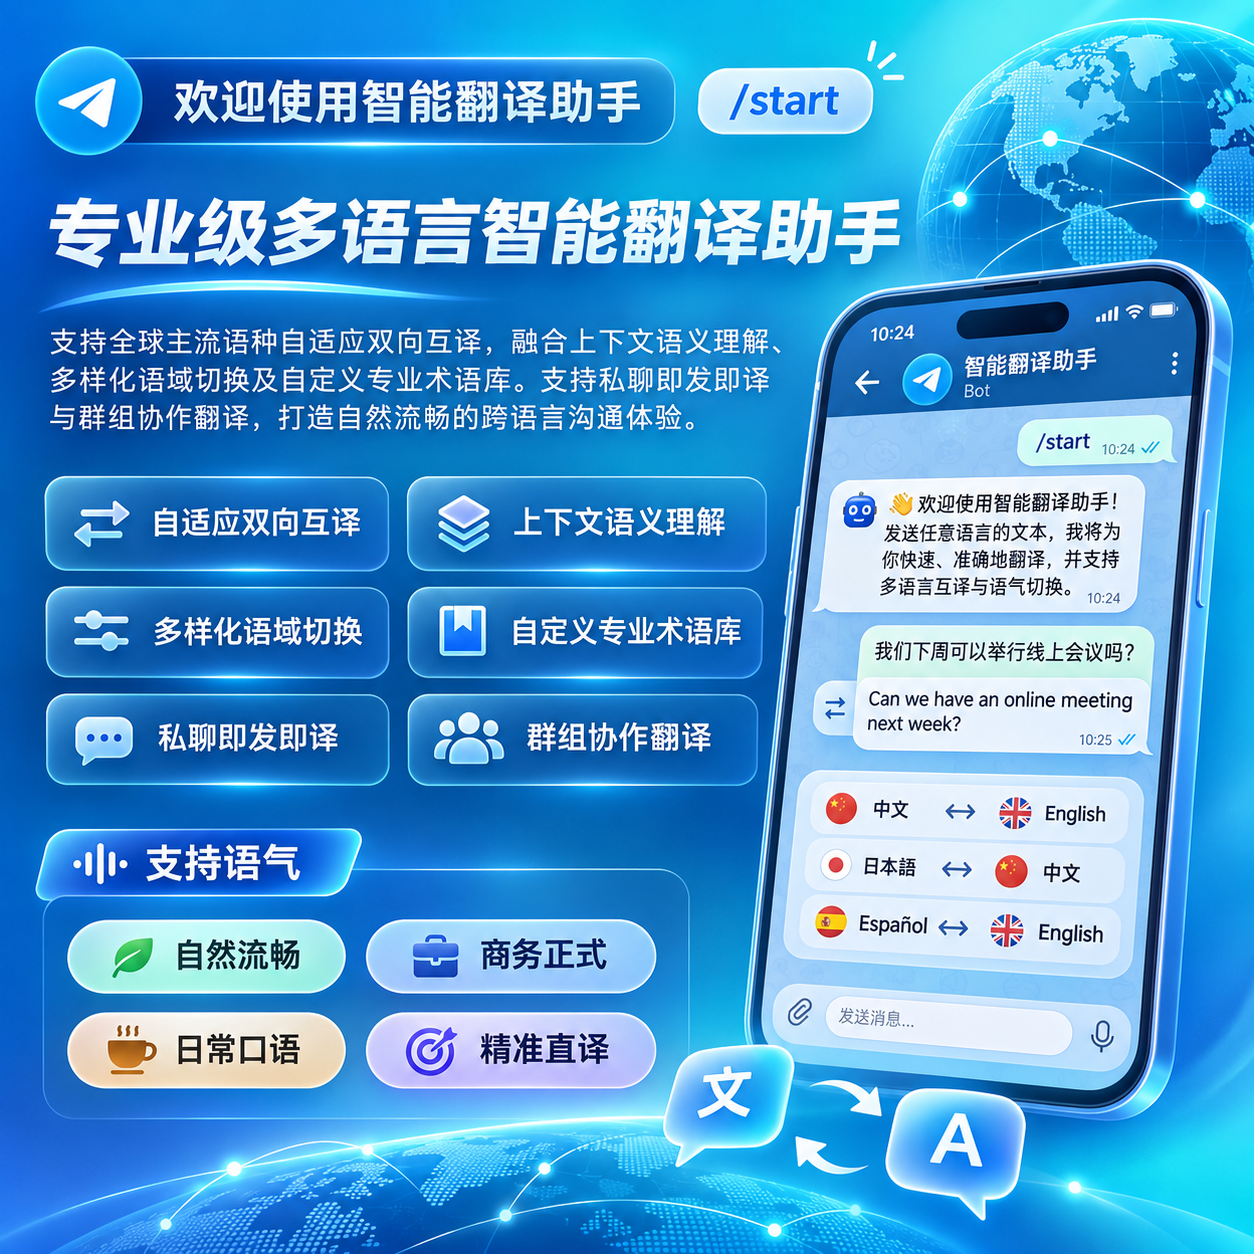
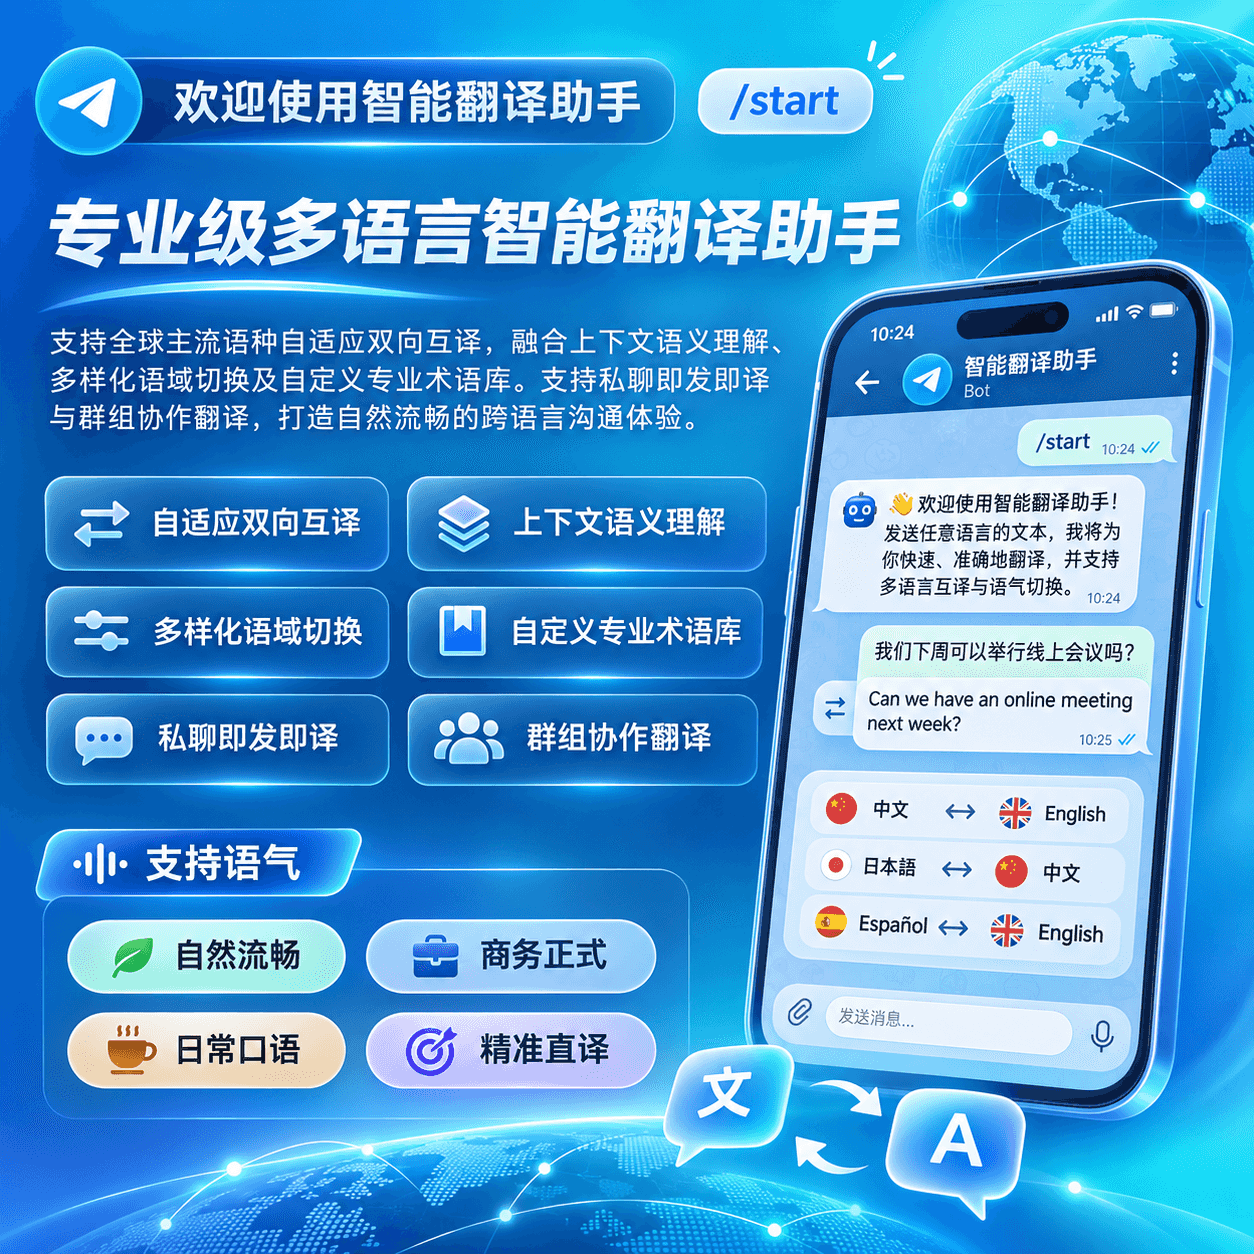
chore: v0.1.0-rc.20 欢迎图改用压缩版

diff --git a/CHANGELOG.md b/CHANGELOG.md
@@ -1,5 +1,11 @@
 # 更新日志
 
+## 0.1.0-rc.20
+
+### 变更
+
+- 欢迎图替换为压缩版（2.0 MB → 489 KB），安装包体积回落
+
 ## 0.1.0-rc.19
 
 ### 变更
